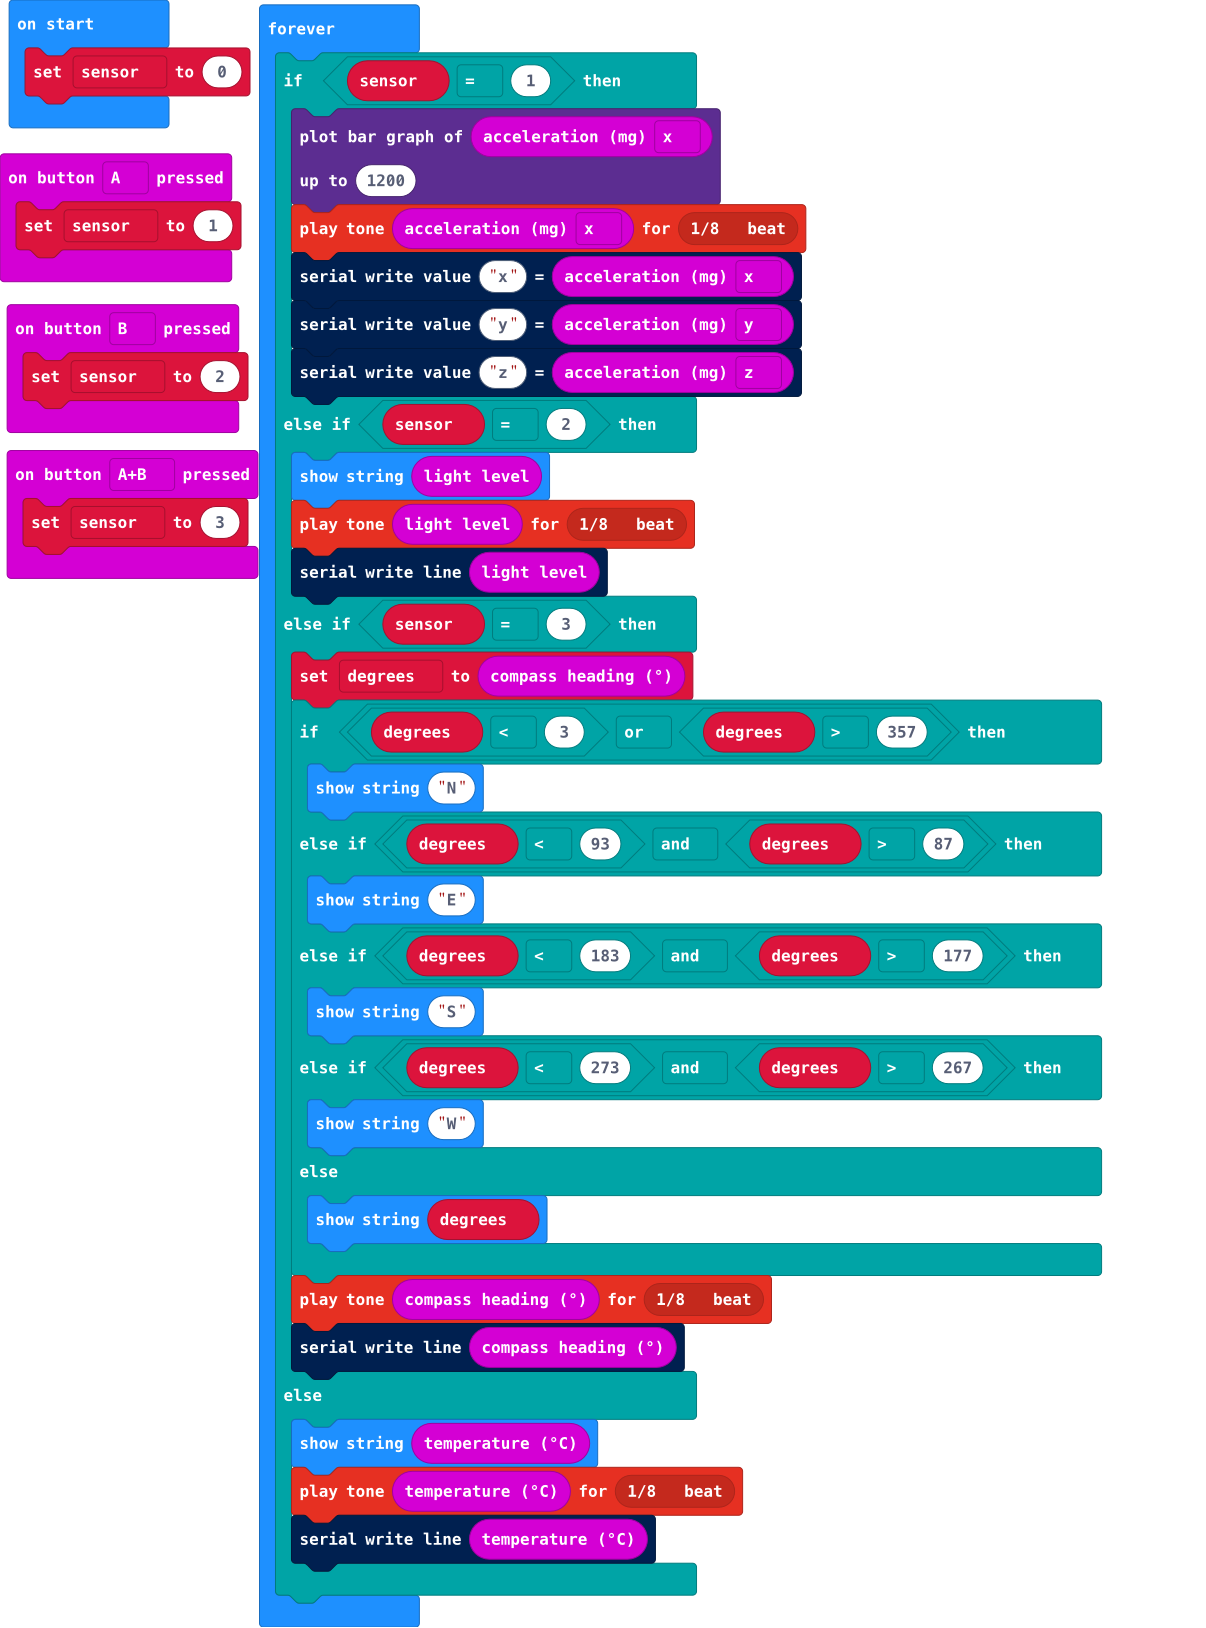
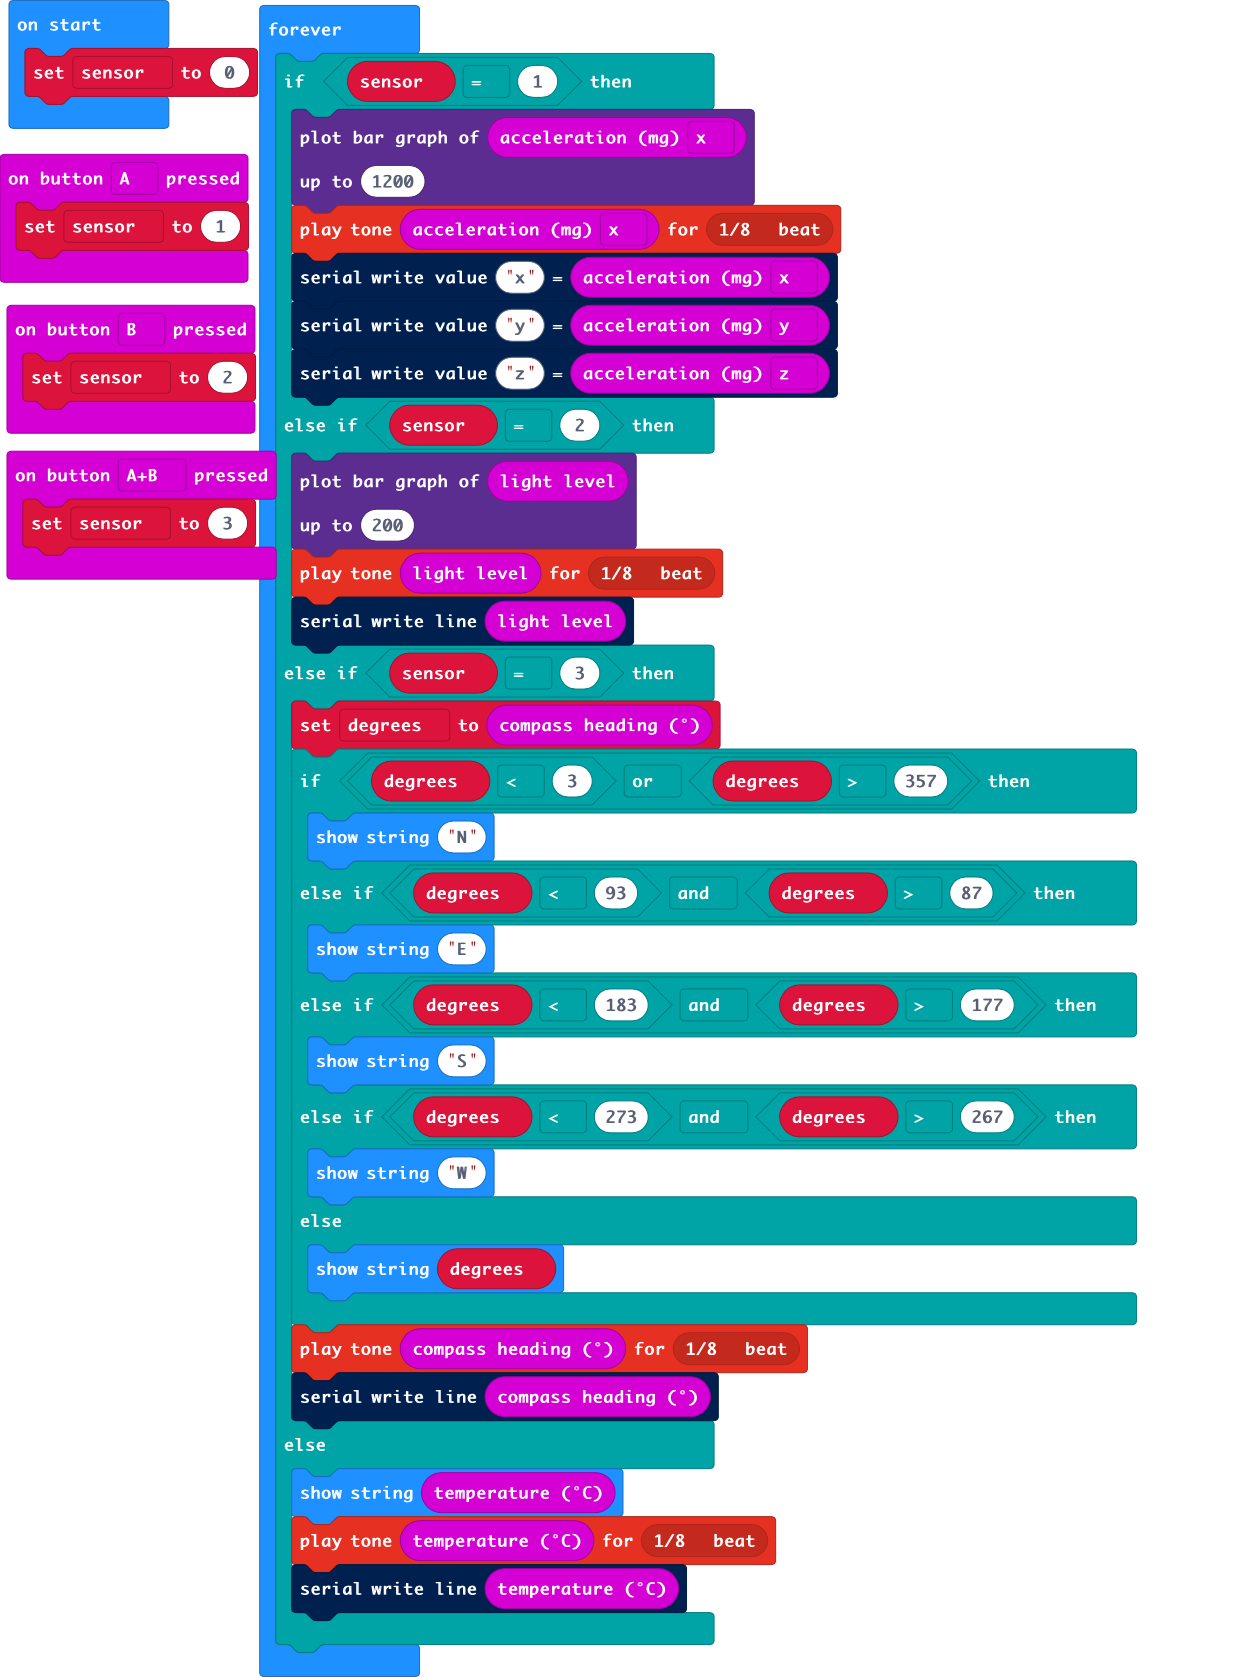
Update main.blocks, main.ts

Changed region(s): [[0.0, 0.0, 0.9204, 1.0]]

diff --git a/main.ts b/main.ts
@@ -21,7 +21,10 @@ basic.forever(function () {
         serial.writeValue("y", input.acceleration(Dimension.Y))
         serial.writeValue("z", input.acceleration(Dimension.Z))
     } else if (sensor == 2) {
-        basic.showString("" + (input.lightLevel()))
+        led.plotBarGraph(
+        input.lightLevel(),
+        200
+        )
         music.playTone(input.lightLevel(), music.beat(BeatFraction.Eighth))
         serial.writeLine("" + (input.lightLevel()))
     } else if (sensor == 3) {
